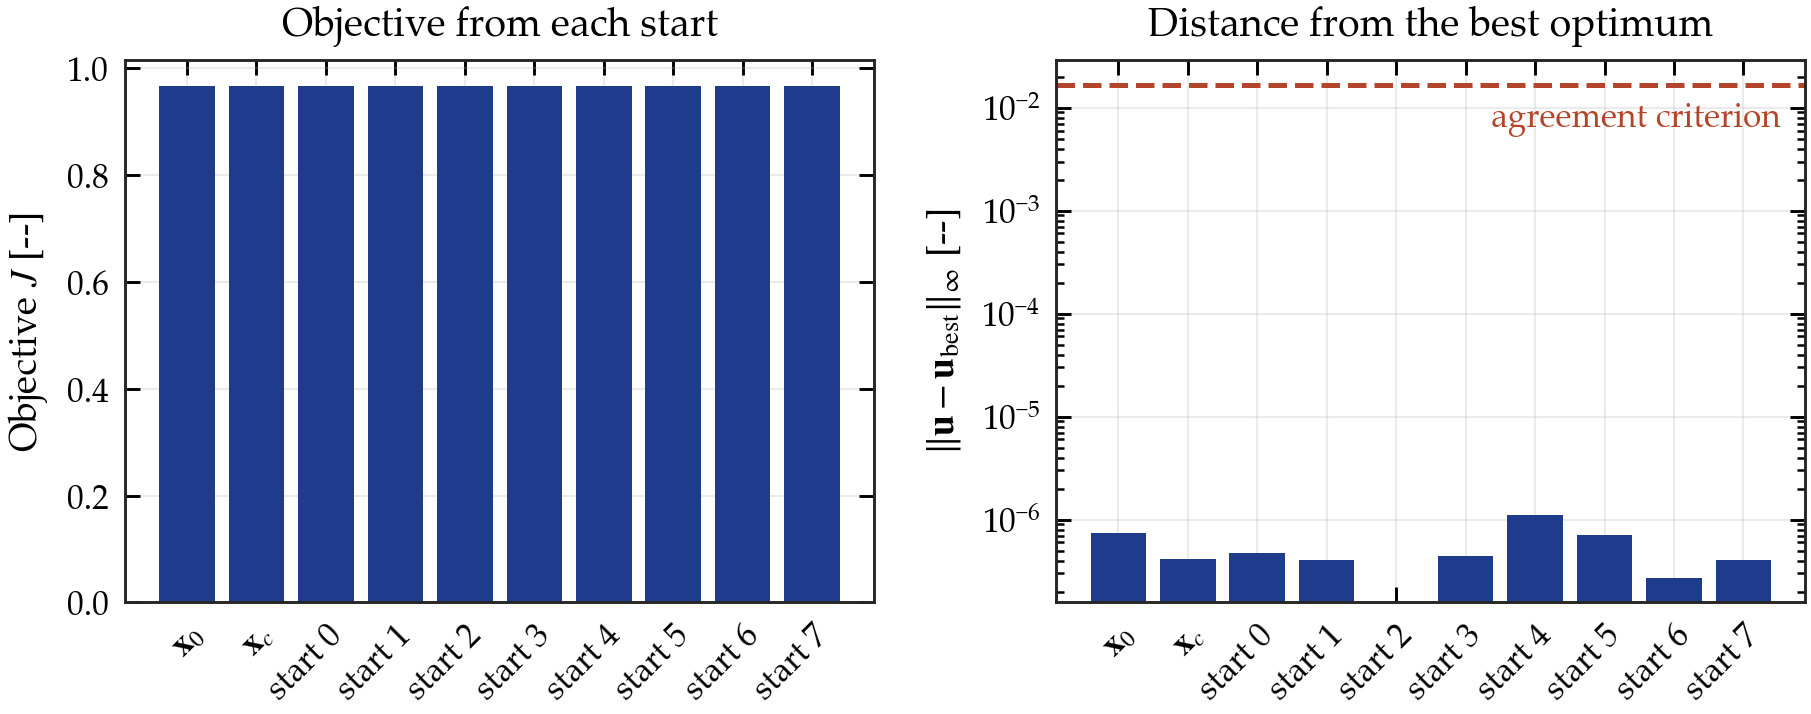
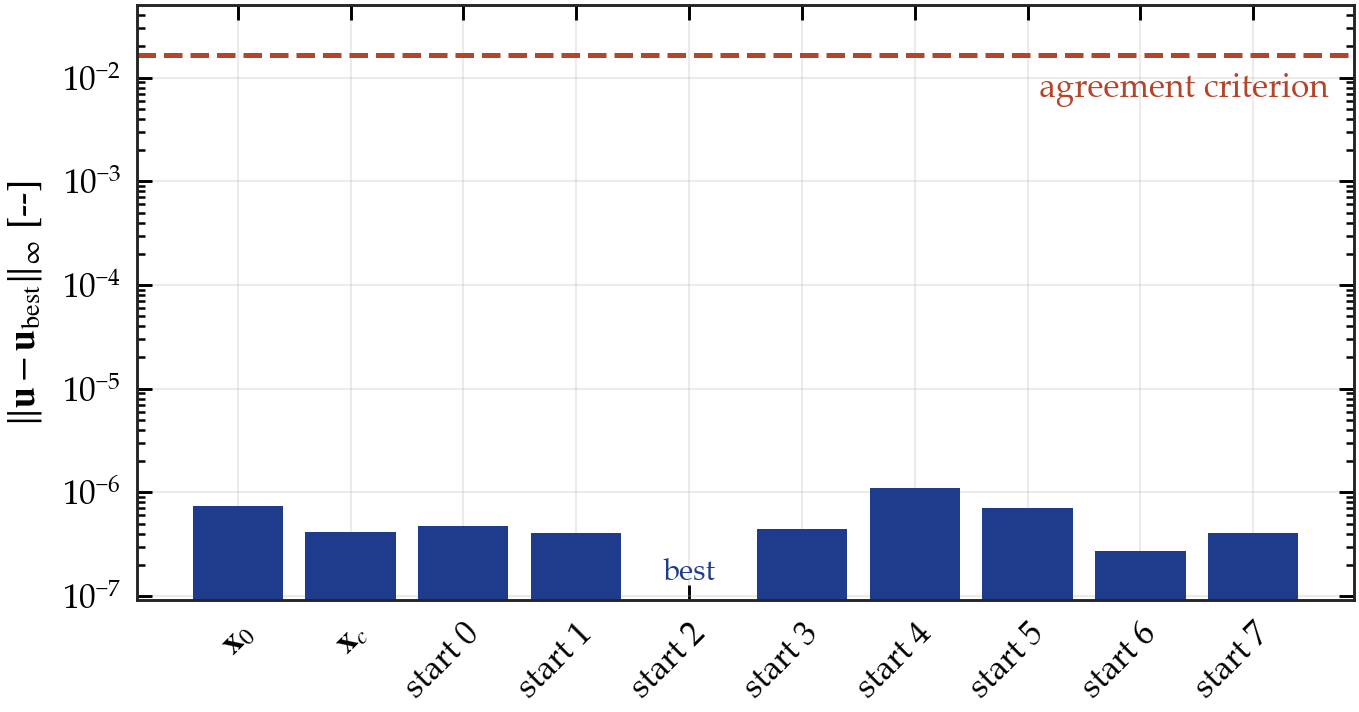
Multi-start figure: one panel, distance from the best optimum only
The objective panel drew ten identical bars (the runs agree to about 1e-11
in the normalised objective) and carried no information. The best run's
zero distance, which a log axis cannot draw, is labelled instead.

diff --git a/verification/mass_optimisation/run_multistart.py b/verification/mass_optimisation/run_multistart.py
@@ -122,13 +122,15 @@ def _start_label(label):
 
 def plot_multistart(runs, spread, path):
     """
-    The optima the ten starts reached, two panels side by side, written
-    through `figstyle.save`:
+    The optima the ten starts reached, one panel, written through
+    `figstyle.save`: `|u - u_best|_inf` for each start on a log axis, with
+    the committed agreement criterion as a dashed line. The best run itself
+    is at distance zero, which a log axis cannot draw, so its slot is
+    labelled "best" instead of carrying a bar.
 
-    * "Objective from each start" -- the objective value each run reached
-      (bars, one per start);
-    * "Distance from the best optimum" -- `|u - u_best|_inf` on a log axis,
-      with the committed agreement criterion as a dashed line.
+    The objective values are not plotted: the ten runs agree to about
+    1e-11 in the normalised objective, so bars of the objective are ten
+    identical bars and carry no information.
 
     `runs` is `multistart_delta0.json`'s `runs`; the best run is the
     feasible one with the lowest objective, and the distance is taken from
@@ -147,8 +149,6 @@ def plot_multistart(runs, spread, path):
     ok = [r for r in runs if r["status"] == "ok" and r.get("u_m")]
     feasible = [r for r in ok if r.get("feasible")]
     best = min(feasible or ok, key=lambda r: r["mass"]) if ok else None
-    labels = [r["label"] for r in ok]
-    objective = [r["mass"] for r in ok]
     distance = []
     for r in ok:
         if best is None:
@@ -161,37 +161,39 @@ def plot_multistart(runs, spread, path):
     blue, red = figstyle.PALETTE[0], figstyle.PALETTE[1]
     orange = figstyle.PALETTE[3]
     colours = [blue if r.get("feasible") else orange for r in ok]
-    labels = [_start_label(label) for label in labels]
+    labels = [_start_label(r["label"]) for r in ok]
 
-    fig, axes = plt.subplots(1, 2, figsize=figstyle.DOUBLE)
+    fig, ax = plt.subplots(figsize=(4.8, 2.6))
 
-    axes[0].bar(x, objective, color=colours)
-    axes[0].set_xticks(x)
-    axes[0].set_xticklabels(labels, rotation=45, ha="right",
-                            rotation_mode="anchor")
-    axes[0].set_ylabel(figstyle.LABELS["objective"])
-    figstyle.title(axes[0], "Objective from each start")
-
-    axes[1].bar(x, distance, color=colours)
-    axes[1].axhline(spread, color=red, lw=1.2, ls="--")
+    ax.bar(x, distance, color=colours)
+    ax.axhline(spread, color=red, lw=1.2, ls="--")
     # The criterion is named on its line, below it at the right-hand end,
-    # where the bars (five decades lower) leave the panel empty.
-    axes[1].annotate("agreement criterion", (1.0, spread),
-                     xycoords=axes[1].get_yaxis_transform(), xytext=(-6, -4),
-                     textcoords="offset points", ha="right", va="top",
-                     fontsize=8, color=red)
-    axes[1].set_xticks(x)
-    axes[1].set_xticklabels(labels, rotation=45, ha="right",
-                            rotation_mode="anchor")
-    axes[1].set_ylabel(figstyle.label(
+    # where the bars (four decades lower) leave the panel empty.
+    ax.annotate("agreement criterion", (1.0, spread),
+                xycoords=ax.get_yaxis_transform(), xytext=(-6, -4),
+                textcoords="offset points", ha="right", va="top",
+                fontsize=8, color=red)
+    ax.set_xticks(x)
+    ax.set_xticklabels(labels, rotation=45, ha="right",
+                       rotation_mode="anchor")
+    ax.set_ylabel(figstyle.label(
         r"$\|\mathbf{u} - \mathbf{u}_{\mathrm{best}}\|_\infty$", None, "--"))
-    axes[1].set_yscale("log")
-    figstyle.title(axes[1], "Distance from the best optimum")
+    ax.set_yscale("log")
+    # Fix the lower limit before labelling the best slot, so the label sits
+    # just above the axis whatever the bars' range.
+    positive = [d for d in distance if d > 0]
+    if positive:
+        ax.set_ylim(min(positive) / 3.0, spread * 3.0)
+    for i, d in enumerate(distance):
+        if d == 0.0:
+            ax.annotate("best", (i, 0.0), xycoords=("data", "axes fraction"),
+                        xytext=(0, 3), textcoords="offset points",
+                        ha="center", va="bottom", fontsize=7, color=blue)
 
     if any(r.get("feasible") for r in ok) and any(not r.get("feasible") for r in ok):
         handles = [Line2D([], [], color=blue, lw=6, label="feasible optimum"),
                    Line2D([], [], color=orange, lw=6, label="infeasible optimum")]
-        axes[0].legend(handles=handles, loc="upper right", fontsize=7)
+        ax.legend(handles=handles, loc="center right", fontsize=7)
 
     fig.tight_layout()
     figstyle.save(fig, path)
